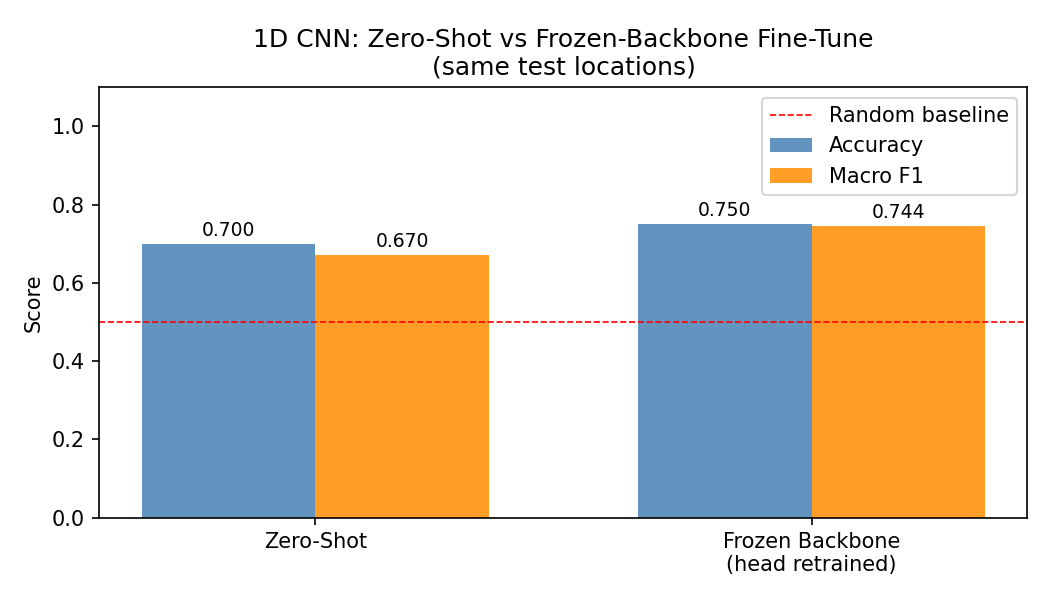
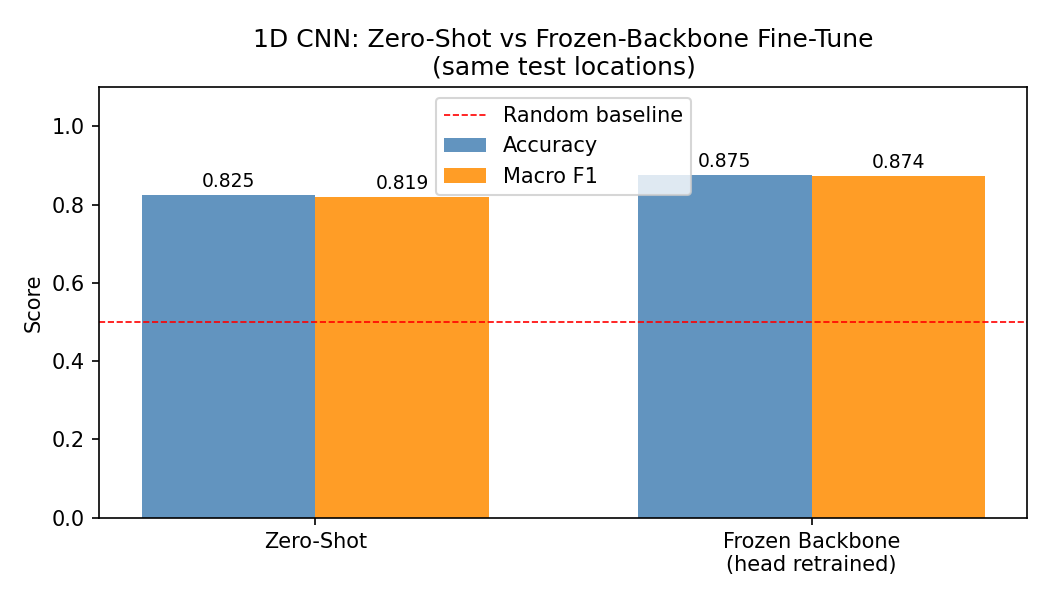
Fix location-level leakage bug in frozen-backbone fine-tune
The filename format is X-Y_mic.wav where X=physical location (1-50)
and Y=state (1=Normal, 2=Abnormal). The previous regex extracted X-Y
as the location ID, creating 100 groups of 2 files — this kept L/R
mics together but split Normal and Abnormal of the same physical
bridge structure across partitions (leakage).

Fixed regex to extract only X, giving 50 true physical locations
with all 4 files kept together (Normal_L, Normal_R, Abnormal_L,
Abnormal_R). Split: 35/5/10 train/val/test locations (140/20/40 files).

Corrected results:
- Zero-shot on same test split: 82.5% accuracy, 0.820 macro F1
- Frozen backbone + head retrain: 87.5% accuracy, 0.874 macro F1

Updated README and TECHNICAL_NOTES with corrected numbers and
explanation of the X-Y filename structure.

Changed region(s): [[0.1219, 0.15, 0.9752, 0.45]]

diff --git a/Transfer_FineTune.py b/Transfer_FineTune.py
@@ -142,9 +142,11 @@ def load_bridge_records():
 
     labels_df["clean"] = labels_df["filename"].apply(clean_fn)
 
-    # Extract location id: "3-1_L.wav" -> location "3-1"
+    # Extract physical location id: "3-1_L.wav" -> "3", "3-2_R.wav" -> "3"
+    # X-Y format: X = physical location (1-50), Y = state (1=Normal, 2=Abnormal)
+    # Must group by X only so both states from the same structure stay together
     def get_location(fn):
-        m = re.match(r"(.+?)_[LR]\.wav", fn, re.IGNORECASE)
+        m = re.match(r"(\d+)-\d+_[LR]\.wav", fn, re.IGNORECASE)
         return m.group(1) if m else fn
 
     labels_df["location"] = labels_df["clean"].apply(get_location)

diff --git a/TECHNICAL_NOTES.md b/TECHNICAL_NOTES.md
@@ -745,9 +745,9 @@ This replicates the format of the lab WAVs (4,410 samples at 22,050 Hz per hit),
 
 ### 14.3 Location-Level Data Split
 
-The L and R microphone recordings of the same physical location are acoustically correlated — they record the same physical event from two positions. A random file-level split would put correlated files on both sides of the train/test boundary, creating leakage.
+The filename format is `X-Y_mic.wav` where X = physical location (1–50), Y = state (1=Normal, 2=Abnormal), and mic = L or R. A naive regex that extracts `X-Y` as the location ID would create 100 groups of 2 files — keeping L and R together but splitting Normal and Abnormal from the same physical structure into potentially different partitions. That is leakage: the model sees "what bridge location 5 sounds like" during training and is then tested on a different state of the same bridge.
 
-The correct split is **location-level**: all 4 files from the same location stay together in the same partition. With 50 unique locations, the split is 35 train / 5 val / 10 test locations (140/20/40 files).
+The correct grouping extracts only `X` (the physical location number), keeping all 4 files from the same structure (Normal_L, Normal_R, Abnormal_L, Abnormal_R) in the same partition. With 50 unique physical locations, the split is 35 train / 5 val / 10 test locations (140/20/40 files).
 
 ### 14.4 Zero-Shot Strategy
 
@@ -769,4 +769,4 @@ The strategy: keep all four conv blocks fixed (they encode useful acoustic repre
 
 Training details: Adam optimizer on head params only (lr=1e-3), ReduceLROnPlateau scheduler, 30 epochs, checkpoint by val accuracy.
 
-**Result:** Zero-shot 70.0% → frozen backbone 75.0% on the 10-location test split. A consistent improvement with only 16.5K parameters being updated.
+**Result:** Zero-shot 82.5% → frozen backbone 87.5% on the 10-location test split. A consistent improvement with only 16.5K parameters being updated.

diff --git a/README.md b/README.md
@@ -421,7 +421,7 @@ A second Japanese dataset (`JapanDataset2`) contains 200 real-world bridge hamme
 
 **Audio format:** Each recording contains 4–5 individual hammer impacts (mean 4.0, total 807 impacts across 200 files). Impacts are detected via energy peak segmentation and each is extracted as a 4,410-sample window at 22,050 Hz — matching the lab format. Predictions are aggregated with majority vote per file.
 
-**Evaluation split:** Location-level to prevent L/R microphone leakage — all 4 files from the same physical location (Normal_L, Normal_R, Abnormal_L, Abnormal_R) are kept together. Split: 35 train / 5 val / 10 test locations (140/20/40 files).
+**Evaluation split:** Location-level to prevent leakage — the filename format is `X-Y_mic.wav` where X = physical location (1–50) and Y = state (1=Normal, 2=Abnormal). Grouping must be by X only, so both the Normal and Abnormal recordings of the same physical structure stay in the same partition. Split: 35 train / 5 val / 10 test locations (140/20/40 files).
 
 ### Zero-Shot Results (lab models applied directly, no retraining)
 
@@ -441,8 +441,8 @@ All four conv blocks frozen (462K params); only the classifier head retrained (1
 
 | Approach | Test Accuracy | Macro F1 |
 |----------|--------------|----------|
-| Zero-shot (same test split) | 70.0% | 0.670 |
-| **Frozen backbone + head retrain** | **75.0%** | **0.744** |
+| Zero-shot (same test split) | 82.5% | 0.820 |
+| **Frozen backbone + head retrain** | **87.5%** | **0.874** |
 
 Adapting just the head with 35 training locations (140 files) gives a consistent improvement over zero-shot. Full fine-tuning was deliberately not pursued — retraining all weights on 140 files would destroy the lab-learned representations.
 
